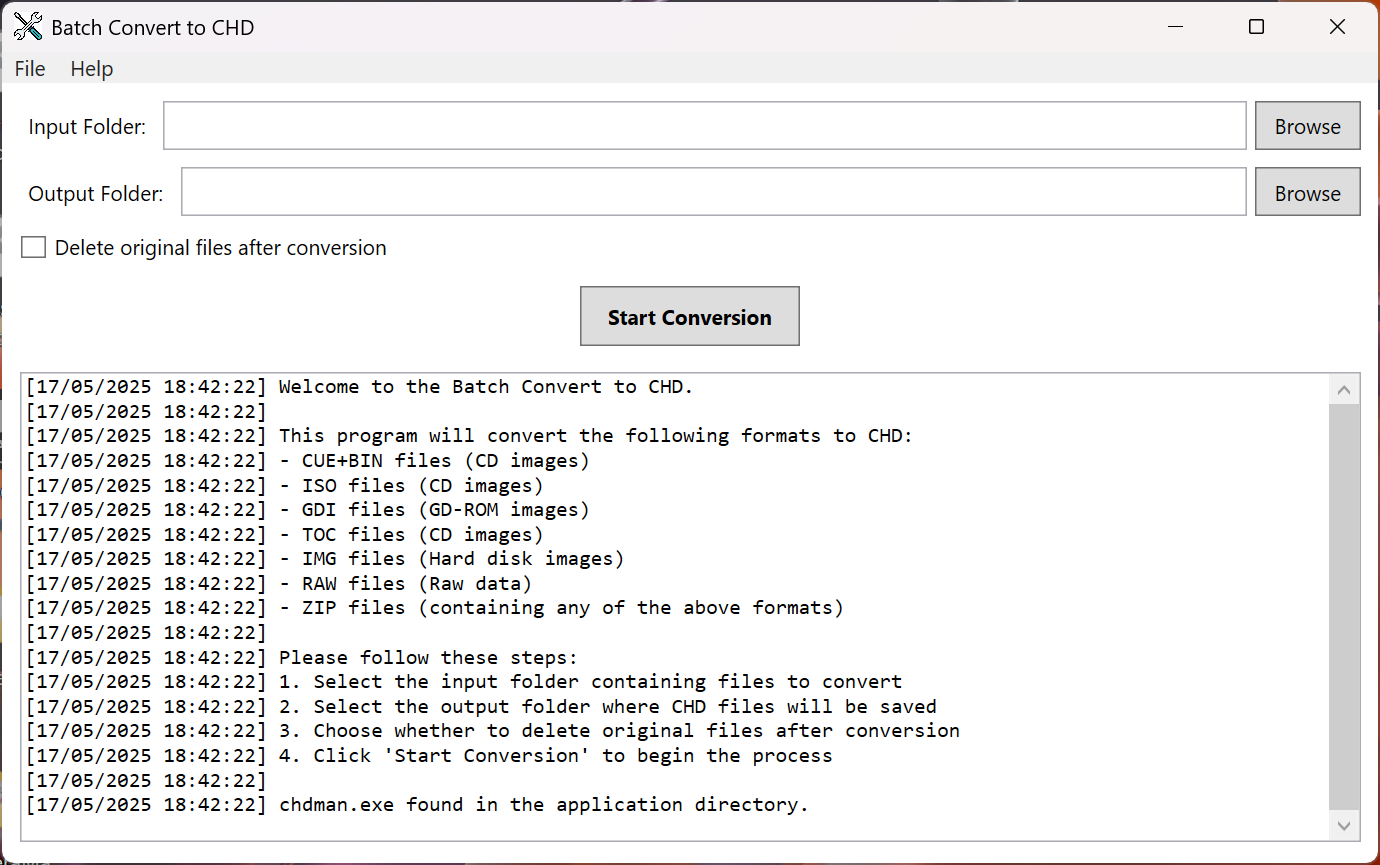
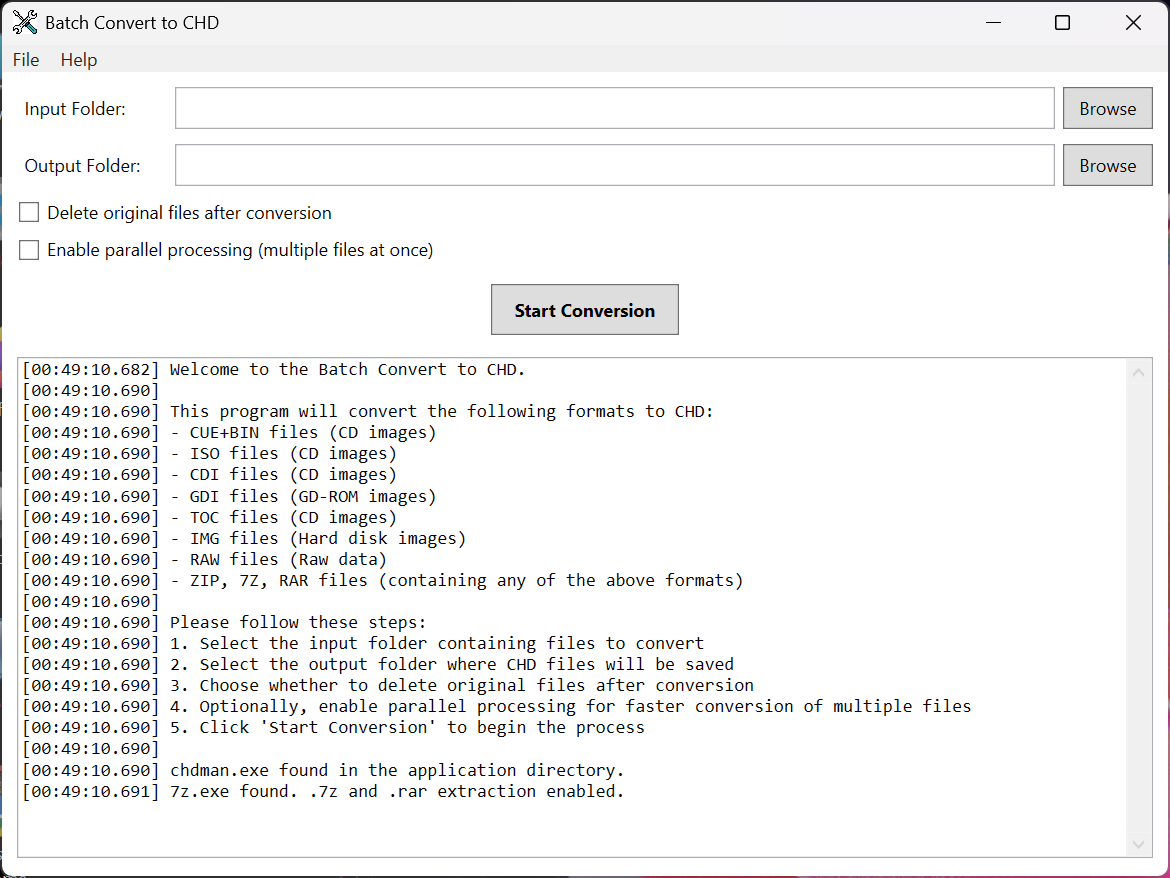
Update ReadMe with new features and archive support details
Expanded the ReadMe to include recently added functionality, such as 7z and RAR archive extraction, parallel processing, and error reporting. Also clarified installation prerequisites and updated the features list for better readability.

Changed region(s): [[0.0, 0.3121, 1.0, 1.0], [0.0, 0.0, 1.0, 0.3121], [0.8923, 0.0, 0.9231, 0.0312]]

diff --git a/ReadMe.md b/ReadMe.md
@@ -6,16 +6,21 @@ A Windows desktop utility for batch converting various disk image formats to CHD
 
 ## Overview
 
-Batch Convert to CHD is a Windows application that provides a simple user interface for converting multiple disk image files to the CHD format. It uses CHDMAN from the MAME project to perform the actual conversions while providing a user-friendly interface for batch processing.
+Batch Convert to CHD is a Windows application that provides a simple user interface for converting multiple disk image files to the CHD format.
+It uses **CHDMAN** from the MAME project for the actual conversions, while providing a user-friendly interface for batch processing.
+It also supports extracting disk images from archives and allows parallel conversion for improved performance.
 
 ## Features
 
-- **Batch Processing**: Convert multiple files in one operation
-- **Multiple Format Support**: Handles various disk image formats
-- **ZIP Support**: Automatically extracts supported files from ZIP archives
-- **Progress Tracking**: Visual progress indication and detailed logging
-- **Delete Original Option**: Option to remove source files after successful conversion
-- **User-Friendly Interface**: Simple, intuitive Windows interface
+- **Batch Processing**: Convert multiple files in a single operation.
+- **Multiple Format Support**: Handles a wide range of disk image formats including CD, DVD, GD-ROM, and HDD image formats.
+- **Archive Support**: Automatically extracts and processes supported files from `.zip`, `.7z`, and `.rar` archives.
+- **7-Zip Integration**: Uses `7z.exe` for `.7z` and `.rar` extraction, included with the application.
+- **Parallel Processing**: Optionally process multiple files in parallel to speed up batch conversion.
+- **Progress Tracking**: Detailed progress indication and real-time logging during the conversion process.
+- **Delete Original Option**: Option to remove source files (including archives and referenced files) after successful conversion.
+- **Global Error Reporting**: Automatic bug reporting to the developer with comprehensive error details.
+- **User-Friendly Interface**: Simple and intuitive Windows interface, including drag-and-drop support.
 
 ## Supported File Formats
 
@@ -26,53 +31,62 @@ Batch Convert to CHD is a Windows application that provides a simple user interf
 - **TOC files** (CD images)
 - **IMG files** (Hard disk images)
 - **RAW files** (Raw data)
-- **ZIP files** (containing any of the above formats)
+- **ZIP, 7Z, RAR archives** (containing any of the above formats)
 
 ## Requirements
 
 - Windows 7 or later
 - [.NET 9.0 Runtime](https://dotnet.microsoft.com/download/dotnet/9.0)
-- CHDMAN. exe (included with the application)
+- `chdman.exe` (included with the application)
+- `7z.exe` and optionally `7z.dll` for archive extraction (included with the application)
 
 ## Installation
 
-1. Download the latest release
-2. Extract the ZIP file to a folder of your choice
-3. Ensure that CHDMAN.exe is in the same directory as the application
-4. Run BatchConvertToCHD.exe
+1. Download the latest release.
+2. Extract the ZIP file to a folder of your choice.
+3. Run `BatchConvertToCHD.exe`.
 
 ## Usage
 
-1. **Select Input Folder**: Click "Browse" next to "Input Folder" to select the directory containing files to convert
-2. **Select Output Folder**: Click "Browse" next to "Output Folder" to choose where the CHD files will be saved
-3. **Delete Option**: Check "Delete original files after conversion" if you want to remove source files after a successful conversion
-4. **Start Conversion**: Click "Start Conversion" to begin the batch process
-5. **Monitor Progress**: The application will display progress and log messages during conversion
-6. **Cancel (if needed)**: Click "Cancel" to stop the conversion process
+1. **Select Input Folder**: Click "Browse" next to "Input Folder" to select the folder containing files (or archives) to convert.
+2. **Select Output Folder**: Click "Browse" next to "Output Folder" to choose where the CHD files will be saved.
+3. **Delete Option**: Check "Delete original files after conversion" if you want to remove source files (including archives and referenced files) after successful conversion.
+4. **Parallel Processing Option**: Check "Enable parallel processing" to convert multiple files concurrently for faster batch completion.
+5. **Start Conversion**: Click "Start Conversion" to begin the batch process.
+6. **Monitor Progress**: The application displays progress bars and detailed log messages for each file during conversion.
+7. **Cancel (if needed)**: Click "Cancel" to stop the ongoing conversion process gracefully.
 
 ## About CHD Format
 
 CHD (Compressed Hunks of Data) is a compressed disk image format developed for the MAME project. It offers several advantages:
 
-- **Efficient Compression**: Significantly reduces file sizes compared to raw disk images
-- **Metadata Storage**: Preserves important disk metadata
-- **Check-summing**: Includes data verification to ensure integrity
-- **Multiple Compression Methods**: Uses optimal compression methods for different data types
+- **Efficient Compression**: Significantly reduces file sizes compared to raw disk images.
+- **Metadata Storage**: Preserves important disk metadata such as track layout and region codes.
+- **Check-summing**: Includes data verification to ensure image integrity.
+- **Multiple Compression Methods**: Uses optimal compression methods to maximize size reduction.
 
 ## Why Use CHD?
 
-- **Save Disk Space**: CHD files are often much smaller than the original formats
-- **Preserve All Data**: Unlike some compression methods, CHD retains all necessary data and metadata
-- **MAME Compatibility**: Directly usable with MAME and other emulators that support CHD
-- **Data Integrity**: Built-in check-summing helps ensure your disk images remain valid
+- **Save Disk Space**: CHD files are often considerably smaller than original disk image formats.
+- **Preserve All Data**: Unlike some compression methods, CHD retains all necessary data and metadata without loss.
+- **MAME Compatibility**: Directly compatible with MAME and other emulators supporting the CHD format.
+- **Data Integrity**: Built-in checks help ensure your disk images remain valid and uncorrupted.
 
 ## Troubleshooting
 
-- Ensure CHDMAN.exe is in the same directory as the application
-- Make sure you have appropriate permissions to read from the input directory and write to the output directory
-- Check the application log for detailed information about any errors
+- Ensure `chdman.exe` and `7z.exe` are present in the same directory as the application.
+- Make sure you have appropriate permissions to read from the input and write to the output directories.
+- If `.7z` or `.rar` extraction is failing, verify that `7z.exe` is not missing.
+- Review the application log window for detailed error messages during conversion.
+- Automatic error reports will be sent to the developer if unexpected issues occur.
 
 ## Acknowledgements
 
-- Use CHDMAN from the [MAME project](https://www.mamedev.org/) for CHD conversion
-- Developed by [Pure Logic Code](https://www.purelogiccode.com)
+- Use **CHDMAN** from the [MAME project](https://www.mamedev.org/) for CHD file conversions.
+- Uses **7-Zip** (`7z.exe`) for extracting `.7z` and `.rar` archives.
+- Developed by [Pure Logic Code](https://www.purelogiccode.com).
+
+---
+
+Thank you for using **Batch Convert to CHD**! For more information and support, visit [purelogiccode.com](https://www.purelogiccode.com).
+
